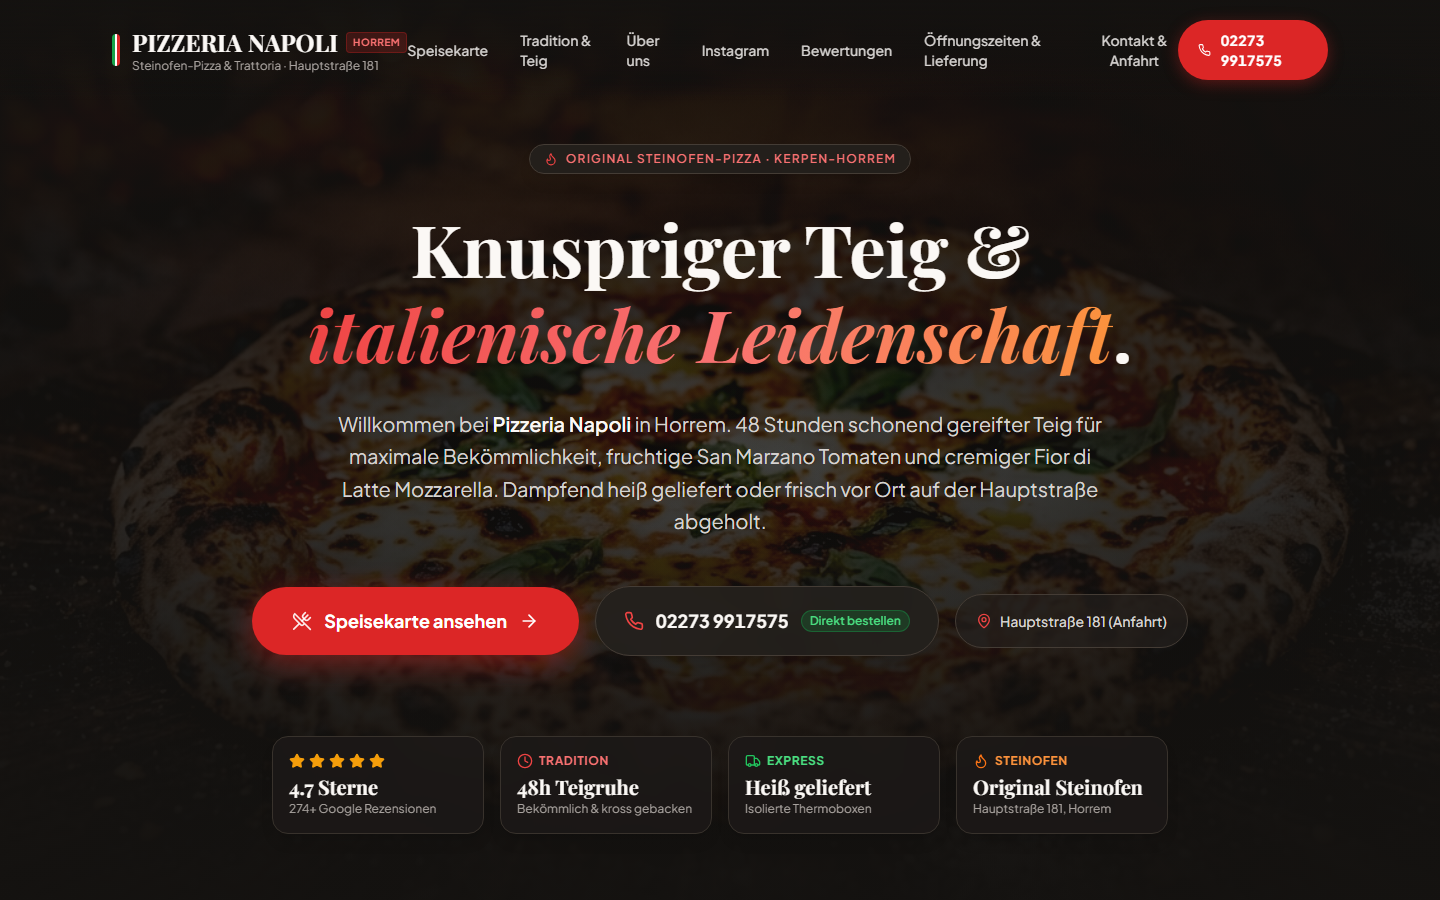
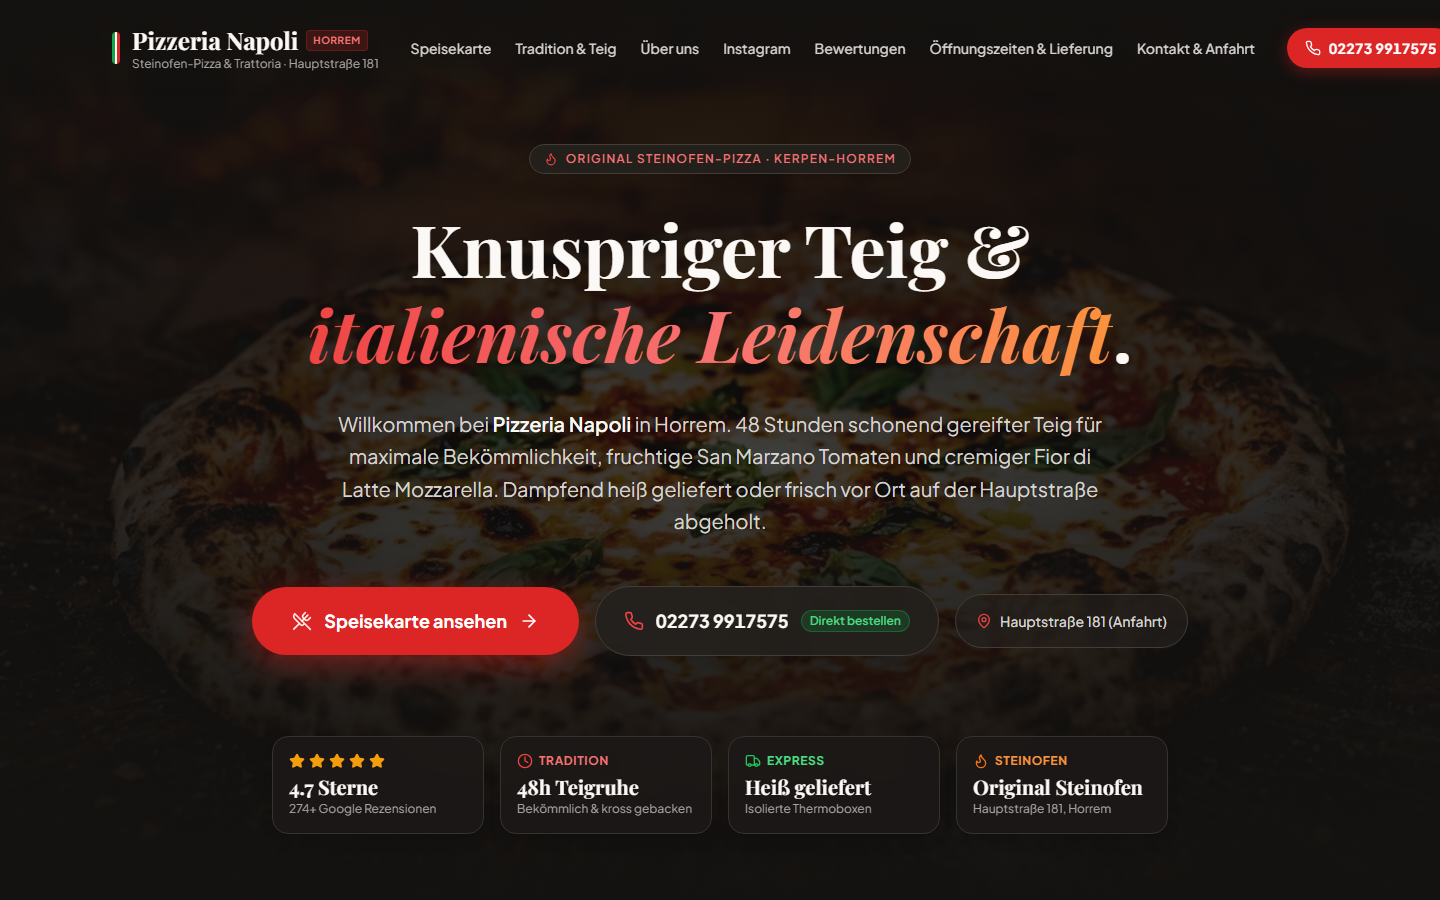
fix(header): eliminate cramped navigation links, remove negative letter tracking and font-black across all headings

Changed region(s): [[0.0938, 0.0, 1.0, 0.1244]]

diff --git a/src/components/Navbar.tsx b/src/components/Navbar.tsx
@@ -22,17 +22,17 @@ export default function Navbar({ onOpenMenu, onOpenContact }: NavbarProps) {
     <header
       className={`fixed top-0 left-0 right-0 z-50 transition-all duration-300 ${
         isScrolled
-          ? 'bg-[#141210]/95 backdrop-blur-md border-b border-[#38322c]/80 shadow-xl py-3'
-          : 'bg-gradient-to-b from-[#141210]/90 to-transparent py-4 sm:py-5'
+          ? 'bg-[#141210]/95 backdrop-blur-md border-b border-[#38322c]/80 shadow-xl py-3.5 sm:py-4'
+          : 'bg-gradient-to-b from-[#141210]/95 via-[#141210]/80 to-transparent py-4 sm:py-6'
       }`}
     >
       <div className="max-w-7xl mx-auto px-4 sm:px-6 lg:px-8">
-        <div className="flex items-center justify-between">
+        <div className="flex items-center justify-between gap-4 lg:gap-8">
           
           {/* Logo & Brand Identity */}
-          <a href="#" className="flex items-center gap-3 group">
+          <a href="#" className="flex items-center gap-3 group shrink-0">
             {/* Italian Flag Colored Accent Pill */}
-            <div className="flex h-8 w-2 rounded-full overflow-hidden flex-shrink-0">
+            <div className="flex h-8 w-2 rounded-full overflow-hidden shrink-0">
               <span className="w-full bg-[#16a34a]" />
               <span className="w-full bg-[#ffffff]" />
               <span className="w-full bg-[#dc2626]" />
@@ -40,59 +40,88 @@ export default function Navbar({ onOpenMenu, onOpenContact }: NavbarProps) {
 
             <div>
               <div className="flex items-center gap-2">
-                <span className="font-serif text-base sm:text-2xl font-bold tracking-normal text-[#fbf8f5] group-hover:text-[#dc2626] transition-colors whitespace-nowrap">
-                  PIZZERIA NAPOLI
+                <span className="font-serif text-lg sm:text-2xl font-bold tracking-normal text-[#fbf8f5] group-hover:text-[#dc2626] transition-colors whitespace-nowrap">
+                  Pizzeria Napoli
                 </span>
-                <span className="text-[9px] sm:text-[10px] font-bold uppercase tracking-wider bg-[#dc2626]/20 text-[#f87171] border border-[#dc2626]/30 px-1 sm:px-1.5 py-0.5 rounded shrink-0">
-                  HORREM
+                <span className="text-[10px] font-bold uppercase tracking-wider bg-[#dc2626]/20 text-[#f87171] border border-[#dc2626]/30 px-1.5 py-0.5 rounded shrink-0">
+                  Horrem
                 </span>
               </div>
-              <p className="text-xs text-[#a8a29e] hidden sm:block tracking-normal">
+              <p className="text-xs text-[#a8a29e] hidden sm:block tracking-normal font-sans">
                 Steinofen-Pizza & Trattoria · Hauptstraße 181
               </p>
             </div>
           </a>
 
-          {/* Desktop Navigation */}
-          <nav className="hidden lg:flex items-center gap-8 text-sm font-medium text-[#d6d3d1]">
+          {/* Desktop Navigation (Full on xl+) */}
+          <nav className="hidden xl:flex items-center gap-6 2xl:gap-8 text-sm font-medium text-[#d6d3d1]">
             <a
               href="#speisekarte"
               onClick={(e) => {
                 e.preventDefault();
                 onOpenMenu();
               }}
-              className="hover:text-[#fbf8f5] transition-colors cursor-pointer"
+              className="hover:text-[#fbf8f5] transition-colors whitespace-nowrap cursor-pointer"
             >
               Speisekarte
             </a>
-            <a href="#qualitaet" className="hover:text-[#fbf8f5] transition-colors">
+            <a href="#qualitaet" className="hover:text-[#fbf8f5] transition-colors whitespace-nowrap">
               Tradition & Teig
             </a>
-            <a href="#ueber-uns" className="hover:text-[#fbf8f5] transition-colors">
+            <a href="#ueber-uns" className="hover:text-[#fbf8f5] transition-colors whitespace-nowrap">
               Über uns
             </a>
-            <a href="#instagram" className="hover:text-[#fbf8f5] transition-colors">
+            <a href="#instagram" className="hover:text-[#fbf8f5] transition-colors whitespace-nowrap">
               Instagram
             </a>
-            <a href="#bewertungen" className="hover:text-[#fbf8f5] transition-colors">
+            <a href="#bewertungen" className="hover:text-[#fbf8f5] transition-colors whitespace-nowrap">
               Bewertungen
             </a>
-            <a href="#oeffnungszeiten" className="hover:text-[#fbf8f5] transition-colors">
+            <a href="#oeffnungszeiten" className="hover:text-[#fbf8f5] transition-colors whitespace-nowrap">
               Öffnungszeiten & Lieferung
             </a>
             <button
               onClick={onOpenContact}
-              className="hover:text-[#fbf8f5] transition-colors cursor-pointer"
+              className="hover:text-[#fbf8f5] transition-colors whitespace-nowrap cursor-pointer"
             >
               Kontakt & Anfahrt
             </button>
           </nav>
 
+          {/* Compact Desktop Navigation (Between lg and xl to prevent cramped links) */}
+          <nav className="hidden lg:flex xl:hidden items-center gap-5 text-sm font-medium text-[#d6d3d1]">
+            <a
+              href="#speisekarte"
+              onClick={(e) => {
+                e.preventDefault();
+                onOpenMenu();
+              }}
+              className="hover:text-[#fbf8f5] transition-colors whitespace-nowrap cursor-pointer"
+            >
+              Speisekarte
+            </a>
+            <a href="#qualitaet" className="hover:text-[#fbf8f5] transition-colors whitespace-nowrap">
+              Tradition
+            </a>
+            <a href="#ueber-uns" className="hover:text-[#fbf8f5] transition-colors whitespace-nowrap">
+              Über uns
+            </a>
+            <a href="#bewertungen" className="hover:text-[#fbf8f5] transition-colors whitespace-nowrap">
+              Bewertungen
+            </a>
+            <button
+              onClick={onOpenContact}
+              className="hover:text-[#fbf8f5] transition-colors whitespace-nowrap cursor-pointer"
+            >
+              Kontakt
+            </button>
+          </nav>
+
           {/* Call-to-Action & Quick Phone */}
-          <div className="hidden sm:flex items-center gap-3">
+          <div className="hidden sm:flex items-center gap-3 shrink-0">
             <a
               href="tel:022739917575"
-              className="inline-flex items-center gap-2.5 bg-[#dc2626] hover:bg-[#b91c1c] text-white text-sm font-bold px-5 py-2.5 rounded-full shadow-[0_4px_16px_rgba(220,38,38,0.35)] transition-all transform active:scale-95 group"
+              className="inline-flex items-center gap-2 bg-[#dc2626] hover:bg-[#b91c1c] text-white text-sm font-bold px-4.5 py-2.5 rounded-full shadow-[0_4px_16px_rgba(220,38,38,0.35)] transition-all transform active:scale-95 group shrink-0 whitespace-nowrap"
             >
               <Phone className="w-4 h-4 group-hover:rotate-12 transition-transform" />
               <span className="tabular-nums tracking-wide">02273 9917575</span>
@@ -103,7 +132,7 @@ export default function Navbar({ onOpenMenu, onOpenContact }: NavbarProps) {
           <button
             onClick={() => setMobileMenuOpen(!mobileMenuOpen)}
             aria-label="Navigation umschalten"
-            className="lg:hidden p-2 rounded-lg text-[#d6d3d1] hover:text-[#fbf8f5] hover:bg-[#24201d] transition-colors"
+            className="lg:hidden p-2 rounded-lg text-[#d6d3d1] hover:text-[#fbf8f5] hover:bg-[#24201d] transition-colors shrink-0"
           >
             {mobileMenuOpen ? <X className="w-6 h-6" /> : <Menu className="w-6 h-6" />}
           </button>

diff --git a/src/components/MenuSection.tsx b/src/components/MenuSection.tsx
@@ -182,7 +182,7 @@ export default function MenuSection() {
             <span>Auswahl aus unserer Karte</span>
           </div>
 
-          <h2 className="font-serif text-3xl sm:text-5xl font-black text-[#fbf8f5] tracking-tight">
+          <h2 className="font-serif text-3xl sm:text-5xl font-bold text-[#fbf8f5] tracking-normal">
             Ofenfrische Spezialitäten
           </h2>
 
@@ -257,7 +257,7 @@ export default function MenuSection() {
                         {item.name}
                       </h3>
                     </div>
-                    <div className="font-serif text-xl font-black text-[#fbf8f5] tabular-nums whitespace-nowrap bg-[#292420] border border-[#443c35] px-3 py-1 rounded-xl">
+                    <div className="font-serif text-xl font-bold text-[#fbf8f5] tabular-nums whitespace-nowrap bg-[#292420] border border-[#443c35] px-3 py-1 rounded-xl">
                       {item.price}
                     </div>
                   </div>

diff --git a/src/components/ServicePrices.tsx b/src/components/ServicePrices.tsx
@@ -182,7 +182,7 @@ export default function MenuSection() {
             <span>Auswahl aus unserer Karte</span>
           </div>
 
-          <h2 className="font-serif text-3xl sm:text-5xl font-black text-[#fbf8f5] tracking-tight">
+          <h2 className="font-serif text-3xl sm:text-5xl font-bold text-[#fbf8f5] tracking-normal">
             Ofenfrische Spezialitäten
           </h2>
 
@@ -257,7 +257,7 @@ export default function MenuSection() {
                         {item.name}
                       </h3>
                     </div>
-                    <div className="font-serif text-xl font-black text-[#fbf8f5] tabular-nums whitespace-nowrap bg-[#292420] border border-[#443c35] px-3 py-1 rounded-xl">
+                    <div className="font-serif text-xl font-bold text-[#fbf8f5] tabular-nums whitespace-nowrap bg-[#292420] border border-[#443c35] px-3 py-1 rounded-xl">
                       {item.price}
                     </div>
                   </div>

diff --git a/src/components/LegalModals.tsx b/src/components/LegalModals.tsx
@@ -23,7 +23,7 @@ export default function LegalModals({ type, onClose }: LegalModalsProps) {
 
         {type === 'impressum' ? (
           <div>
-            <h2 className="font-serif text-2xl sm:text-3xl font-black text-[#fbf8f5] mb-4">
+            <h2 className="font-serif text-2xl sm:text-3xl font-bold text-[#fbf8f5] mb-4">
               Impressum
             </h2>
 
@@ -79,7 +79,7 @@ export default function LegalModals({ type, onClose }: LegalModalsProps) {
               <span className="text-xs font-bold uppercase tracking-wider">Zero-Tracker & DSGVO-Konform</span>
             </div>
 
-            <h2 className="font-serif text-2xl sm:text-3xl font-black text-[#fbf8f5] mb-4">
+            <h2 className="font-serif text-2xl sm:text-3xl font-bold text-[#fbf8f5] mb-4">
               Datenschutzerklärung
             </h2>
 

diff --git a/src/components/GoogleReviews.tsx b/src/components/GoogleReviews.tsx
@@ -44,7 +44,7 @@ export default function GoogleReviews() {
         <div className="bg-[#1c1917] border border-[#38322c] rounded-3xl p-6 sm:p-10 mb-12 shadow-2xl flex flex-col md:flex-row items-center justify-between gap-8">
           <div className="flex flex-col sm:flex-row items-center gap-6 text-center sm:text-left">
             <div className="w-20 h-20 rounded-2xl bg-[#24201d] border border-[#443c35] flex flex-col items-center justify-center shrink-0">
-              <span className="font-serif text-3xl font-black text-[#fbf8f5]">4.7</span>
+              <span className="font-serif text-3xl font-bold text-[#fbf8f5]">4.7</span>
               <div className="flex items-center gap-0.5 text-[#f59e0b]">
                 {[...Array(5)].map((_, i) => (
                   <Star key={i} className="w-3 h-3 fill-[#f59e0b]" />

diff --git a/src/components/Footer.tsx b/src/components/Footer.tsx
@@ -20,7 +20,7 @@ export default function Footer({ onOpenLegal, onOpenMenu }: FooterProps) {
                 <span className="w-full bg-[#ffffff]" />
                 <span className="w-full bg-[#dc2626]" />
               </div>
-              <span className="font-serif text-xl font-extrabold text-[#fbf8f5] tracking-tight">
+              <span className="font-serif text-xl font-bold text-[#fbf8f5] tracking-normal">
                 PIZZERIA NAPOLI
               </span>
             </div>

diff --git a/src/components/AboutUs.tsx b/src/components/AboutUs.tsx
@@ -41,7 +41,7 @@ export default function AboutUs() {
               <span>Unsere Geschichte</span>
             </div>
 
-            <h2 className="font-serif text-3xl sm:text-4xl md:text-5xl font-black text-[#fbf8f5] tracking-tight leading-tight">
+            <h2 className="font-serif text-3xl sm:text-4xl md:text-5xl font-bold text-[#fbf8f5] tracking-normal leading-tight">
               Echte italienische Pizza mit Seele & Tradition
             </h2>
 

diff --git a/src/components/InstagramFeed.tsx b/src/components/InstagramFeed.tsx
@@ -71,7 +71,7 @@ export default function InstagramFeed() {
               <span>Social Media & Community</span>
             </div>
             
-            <h2 className="font-serif text-3xl sm:text-5xl font-black text-[#fbf8f5] tracking-tight">
+            <h2 className="font-serif text-3xl sm:text-5xl font-bold text-[#fbf8f5] tracking-normal">
               Folge uns auf Instagram
             </h2>
             

diff --git a/src/components/QualityPromise.tsx b/src/components/QualityPromise.tsx
@@ -43,7 +43,7 @@ export default function QualityPromise() {
             <span>Warum Pizzeria Napoli?</span>
           </div>
 
-          <h2 className="font-serif text-3xl sm:text-5xl font-black text-[#fbf8f5] tracking-tight">
+          <h2 className="font-serif text-3xl sm:text-5xl font-bold text-[#fbf8f5] tracking-normal">
             Echte Handwerkskunst statt schneller Massenware
           </h2>
 

diff --git a/src/components/OpeningHoursDelivery.tsx b/src/components/OpeningHoursDelivery.tsx
@@ -31,7 +31,7 @@ export default function OpeningHoursDelivery() {
             <span>Öffnungszeiten & Service</span>
           </div>
 
-          <h2 className="font-serif text-3xl sm:text-5xl font-black text-[#fbf8f5] tracking-tight">
+          <h2 className="font-serif text-3xl sm:text-5xl font-bold text-[#fbf8f5] tracking-normal">
             Wann & Wohin wir liefern
           </h2>
 

diff --git a/src/components/ContactMap.tsx b/src/components/ContactMap.tsx
@@ -12,7 +12,7 @@ export default function ContactMap() {
             <span>Standort & Kontakt</span>
           </div>
 
-          <h2 className="font-serif text-3xl sm:text-5xl font-black text-[#fbf8f5] tracking-tight">
+          <h2 className="font-serif text-3xl sm:text-5xl font-bold text-[#fbf8f5] tracking-normal">
             Besuche uns in Kerpen-Horrem
           </h2>
 

diff --git a/src/components/FAQ.tsx b/src/components/FAQ.tsx
@@ -42,7 +42,7 @@ export default function FAQ() {
             <span>Häufige Fragen</span>
           </div>
 
-          <h2 className="font-serif text-3xl sm:text-5xl font-black text-[#fbf8f5] tracking-tight">
+          <h2 className="font-serif text-3xl sm:text-5xl font-bold text-[#fbf8f5] tracking-normal">
             Fragen & Antworten
           </h2>
 
